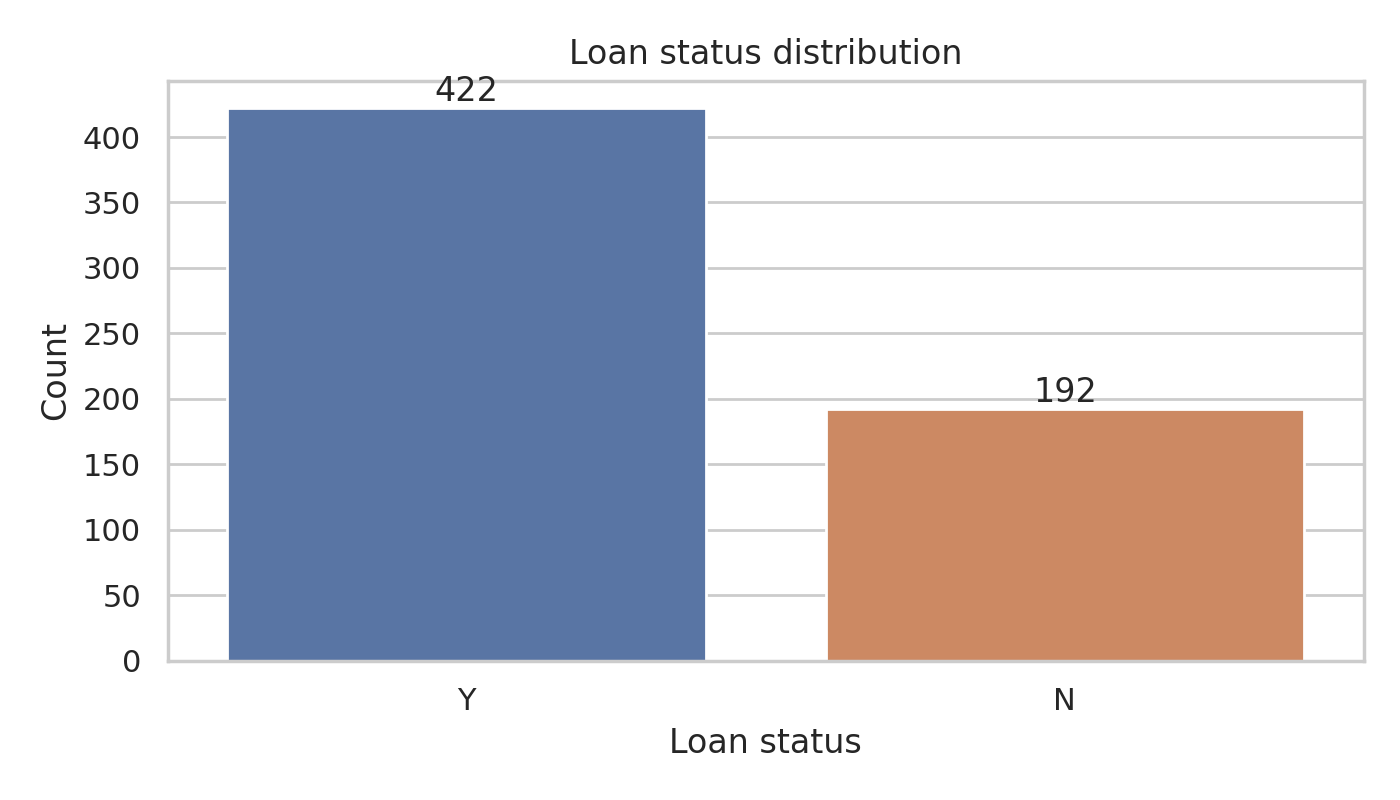
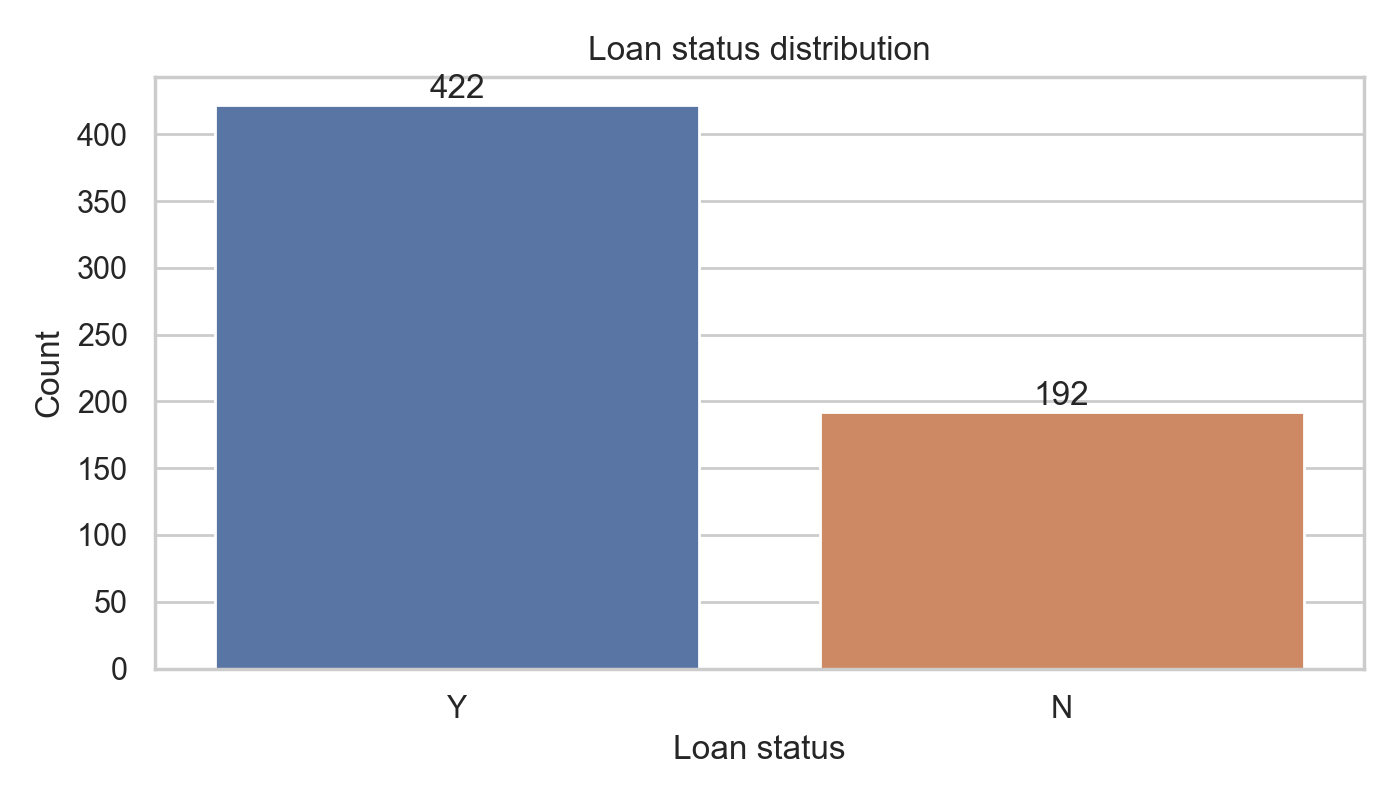
chore: regenerate plots and update report dataset path

diff --git a/docs/technical_report.md b/docs/technical_report.md
@@ -14,7 +14,7 @@ The analysis in this repository uses:
 
 Dataset used during execution:
 
-- `/tmp/workspace/Faus7679/BenchmarkDataMiningClassification/data/LoanDataSet.csv`
+- `C:\Users\Yawo Faustin AZIAKPO\Downloads\LoanDataSet.csv`
 
 ---
 
